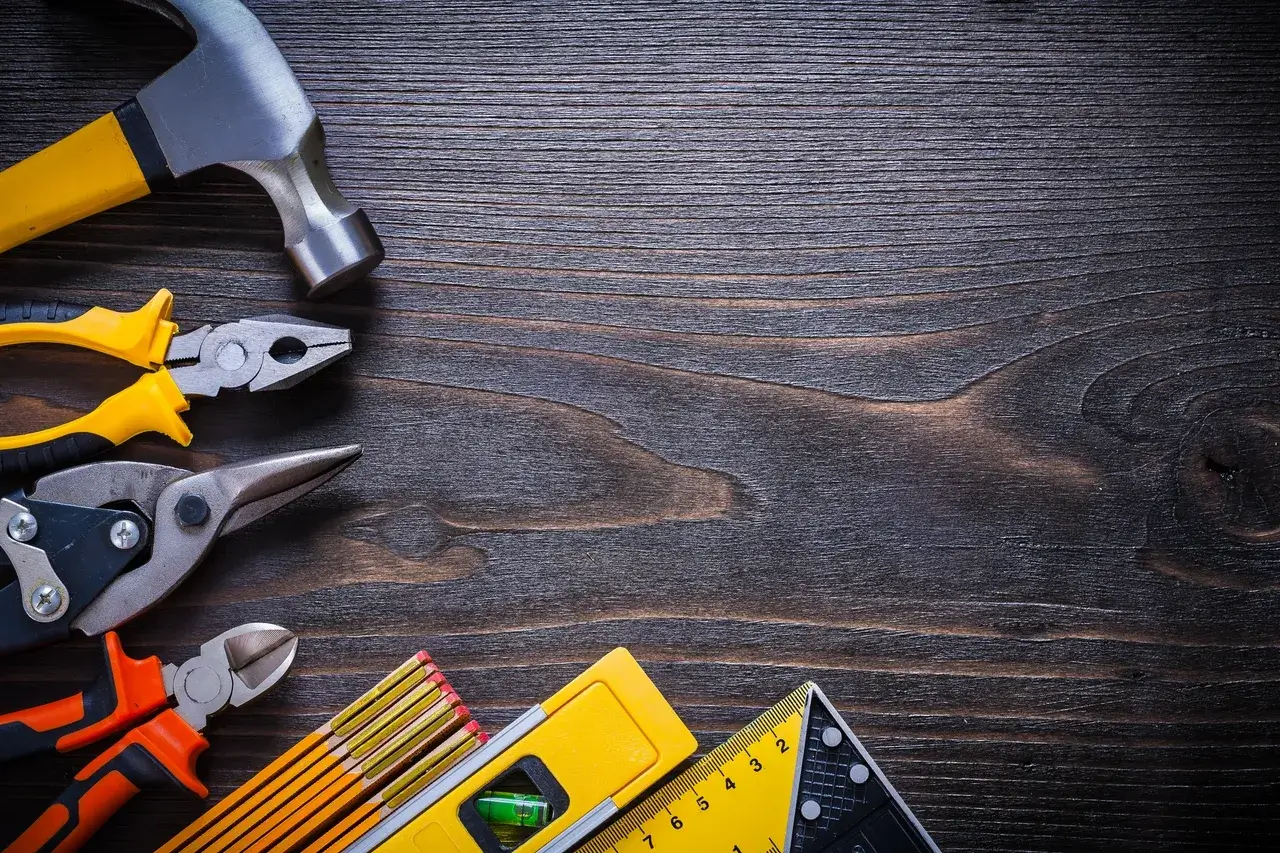
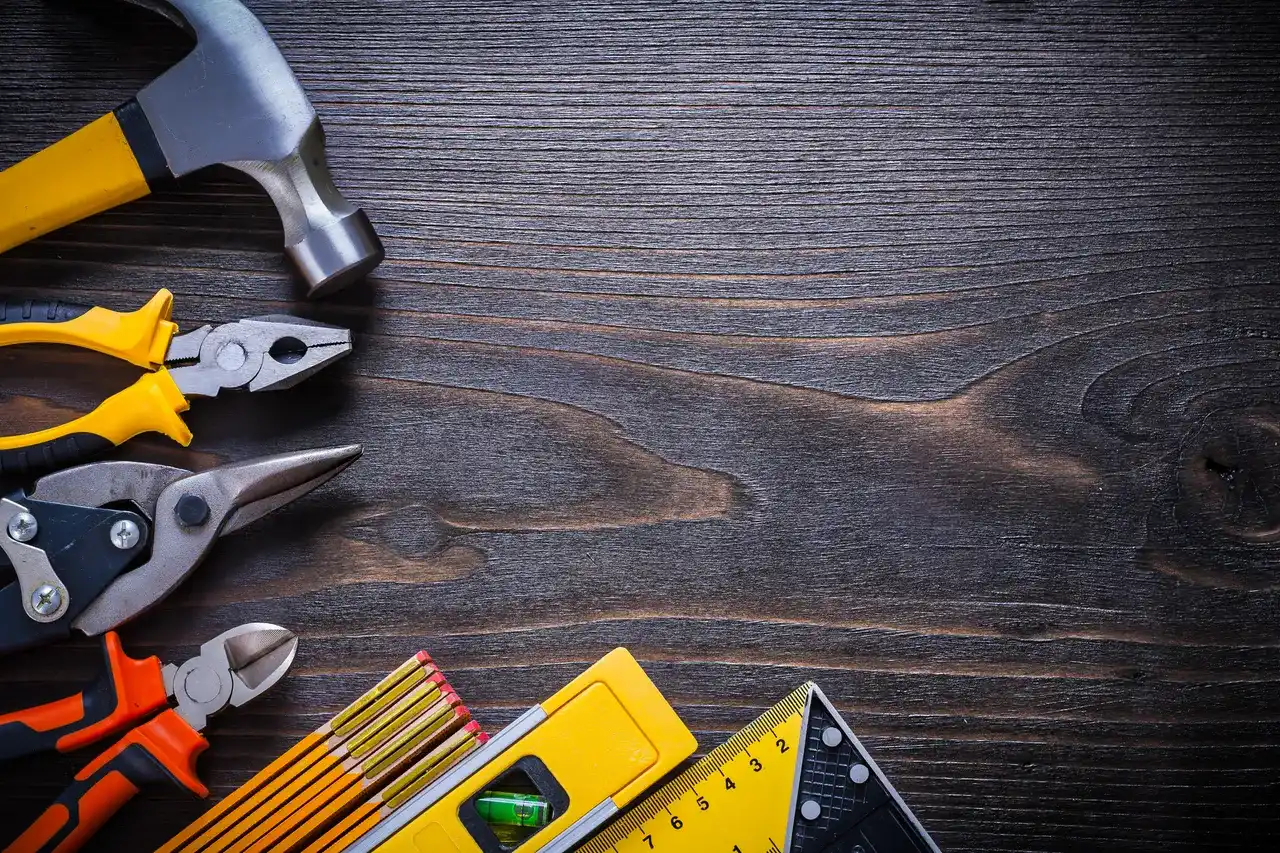
updated layout.jsx to include children for the slider also converted .jpg and .png to .webp using the bash script in utils folder

diff --git a/pages/service/Slider.jsx b/pages/service/Slider.jsx
@@ -3,58 +3,58 @@ import './code.css';
 
 // Import photos from the before and after folders
 const data = [
-  { id: 0, url: '/workpics/misc/businesscard.jpg' },
-  { id: 1, url: '/workpics/before/hillPorchBefore.png' },
-  { id: 2, url: '/workpics/after/hillPorchAfter.png' },
-  { id: 3, url: '/workpics/before/20240527_193813.jpg' },
-  { id: 4, url: '/workpics/after/20240608_175551.jpg ' },
-  { id: 5, url: '/workpics/after/20240619_094805.jpg' },
-  { id: 6, url: '/workpics/after/20240624_144536.jpg' },
-  { id: 7, url: '/workpics/after/20240625_191345.jpg' },
-  { id: 8, url: '/workpics/before/20231010_110550.jpg' },
-  { id: 9, url: '/workpics/after/20231016_160754.jpg' },
-  { id: 10, url: '/workpics/before/20230830_112212.jpg' },
-  { id: 11, url: '/workpics/after/20231208_175223.jpg' },
-  { id: 12, url: '/workpics/before/20230722_154051.jpg' },
-  { id: 13, url: '/workpics/after/20230723_205706.jpg' },
-  { id: 14, url: '/workpics/before/20230829_155936.jpg' },
-  { id: 15, url: '/workpics/after/20230920_170812.jpg' },
-  { id: 16, url: '/workpics/before/20230525_120122.jpg' },
-  { id: 17, url: '/workpics/after/20230505_144805.jpg' },
-  { id: 18, url: '/workpics/before/20241118_122846.jpg' },
-  { id: 19, url: '/workpics/after/20241130_155548.jpg' },
-  { id: 20, url: '/workpics/before/20240321_191549.jpg' },
-  { id: 21, url: '/workpics/after/20240427_175355.jpg' },
-  { id: 22, url: '/workpics/before/20230316_135031.jpg' },
-  { id: 23, url: '/workpics/after/20230914_123747.jpg' },
-  { id: 24, url: '/workpics/before/20230316_135053.jpg' },
-  { id: 25, url: '/workpics/after/20230914_123755.jpg' },
-  { id: 26, url: '/workpics/before/20240815_091030.jpg' },
-  { id: 27, url: '/workpics/before/20240901_115602.jpg' },
-  { id: 28, url: '/workpics/after/20240909_182144.jpg' },
-  { id: 29, url: '/workpics/after/20240909_182256.jpg' },
-  { id: 30, url: '/workpics/after/20230820_200559.jpg' },
-  { id: 31, url: '/workpics/after/20240808_161514.jpg' },
-  { id: 32, url: '/workpics/after/20200331_175327.jpg' },
-  { id: 33, url: '/workpics/after/Screenshot_20191027-160235_Gallery.jpg' },
-  { id: 34, url: '/workpics/before/20230512_183753.jpg' },
-  { id: 35, url: '/workpics/after/20230514_163900.jpg' },
-  // { id: 36, url: '/workpics/after/20240808_161554.jpg' },
-  // { id: 37, url: '/workpics/after/20240808_161602.jpg' },
-  // { id: 38, url: '/workpics/after/20240808_161610.jpg' },
-  // { id: 39, url: '/workpics/after/20240808_161618.jpg' },
-  // { id: 40, url: '/workpics/after/20240808_161626.jpg' },
-  // { id: 41, url: '/workpics/after/20240808_161634.jpg' },
-  // { id: 42, url: '/workpics/after/20240808_161642.jpg' },
-  // { id: 43, url: '/workpics/after/20240808_161650.jpg' },
-  // { id: 44, url: '/workpics/after/20240808_161658.jpg' },
-  // { id: 45, url: '/workpics/after/20240808_161706.jpg' },
-  // { id: 46, url: '/workpics/after/20240808_161714.jpg' },
-  // { id: 47, url: '/workpics/after/20240808_161722.jpg' },
-  // { id: 48, url: '/workpics/after/20240808_161730.jpg' },
-  // { id: 49, url: '/workpics/after/20240808_161738.jpg' },
-  // { id: 50, url: '/workpics/after/20240808_161746.jpg' },
-  // { id: 51, url: '/workpics/after/20240808_161754.jpg' },
+  { id: 0, url: '/workpics/misc/businesscard.webp' },
+  { id: 1, url: '/workpics/before/hillPorchBefore.webp' },
+  { id: 2, url: '/workpics/after/hillPorchAfter.webp' },
+  { id: 3, url: '/workpics/before/20240527_193813.webp' },
+  { id: 4, url: '/workpics/after/20240608_175551.webp ' },
+  { id: 5, url: '/workpics/after/20240619_094805.webp' },
+  { id: 6, url: '/workpics/after/20240624_144536.webp' },
+  { id: 7, url: '/workpics/after/20240625_191345.webp' },
+  { id: 8, url: '/workpics/before/20231010_110550.webp' },
+  { id: 9, url: '/workpics/after/20231016_160754.webp' },
+  { id: 10, url: '/workpics/before/20230830_112212.webp' },
+  { id: 11, url: '/workpics/after/20231208_175223.webp' },
+  { id: 12, url: '/workpics/before/20230722_154051.webp' },
+  { id: 13, url: '/workpics/after/20230723_205706.webp' },
+  { id: 14, url: '/workpics/before/20230829_155936.webp' },
+  { id: 15, url: '/workpics/after/20230920_170812.webp' },
+  { id: 16, url: '/workpics/before/20230525_120122.webp' },
+  { id: 17, url: '/workpics/after/20230505_144805.webp' },
+  { id: 18, url: '/workpics/before/20241118_122846.webp' },
+  { id: 19, url: '/workpics/after/20241130_155548.webp' },
+  { id: 20, url: '/workpics/before/20240321_191549.webp' },
+  { id: 21, url: '/workpics/after/20240427_175355.webp' },
+  { id: 22, url: '/workpics/before/20230316_135031.webp' },
+  { id: 23, url: '/workpics/after/20230914_123747.webp' },
+  { id: 24, url: '/workpics/before/20230316_135053.webp' },
+  { id: 25, url: '/workpics/after/20230914_123755.webp' },
+  { id: 26, url: '/workpics/before/20240815_091030.webp' },
+  { id: 27, url: '/workpics/before/20240901_115602.webp' },
+  { id: 28, url: '/workpics/after/20240909_182144.webp' },
+  { id: 29, url: '/workpics/after/20240909_182256.webp' },
+  { id: 30, url: '/workpics/after/20230820_200559.webp' },
+  { id: 31, url: '/workpics/after/20240808_161514.webp' },
+  { id: 32, url: '/workpics/after/20200331_175327.webp' },
+  { id: 33, url: '/workpics/after/Screenshot_20191027-160235_Gallery.webp' },
+  { id: 34, url: '/workpics/before/20230512_183753.webp' },
+  { id: 35, url: '/workpics/after/20230514_163900.webp' },
+  // { id: 36, url: '/workpics/after/20240808_161554.webp' },
+  // { id: 37, url: '/workpics/after/20240808_161602.webp' },
+  // { id: 38, url: '/workpics/after/20240808_161610.webp' },
+  // { id: 39, url: '/workpics/after/20240808_161618.webp' },
+  // { id: 40, url: '/workpics/after/20240808_161626.webp' },
+  // { id: 41, url: '/workpics/after/20240808_161634.webp' },
+  // { id: 42, url: '/workpics/after/20240808_161642.webp' },
+  // { id: 43, url: '/workpics/after/20240808_161650.webp' },
+  // { id: 44, url: '/workpics/after/20240808_161658.webp' },
+  // { id: 45, url: '/workpics/after/20240808_161706.webp' },
+  // { id: 46, url: '/workpics/after/20240808_161714.webp' },
+  // { id: 47, url: '/workpics/after/20240808_161722.webp' },
+  // { id: 48, url: '/workpics/after/20240808_161730.webp' },
+  // { id: 49, url: '/workpics/after/20240808_161738.webp' },
+  // { id: 50, url: '/workpics/after/20240808_161746.webp' },
+  // { id: 51, url: '/workpics/after/20240808_161754.webp' },
   // { id: 52, url: '/workpics/after/20240808_
 ];
 

diff --git a/renderer/Layout.jsx b/renderer/Layout.jsx
@@ -27,6 +27,7 @@ function Layout({ pageContext, children }) {
         <Reviews /> {/* Include the Reviews component */}
         <ContactSection /> {/* Include the ContactSection component */}
         <Footer /> {/* Include the Footer component */}
+        {children}
       </PageContextProvider>
     </React.StrictMode>
   )
